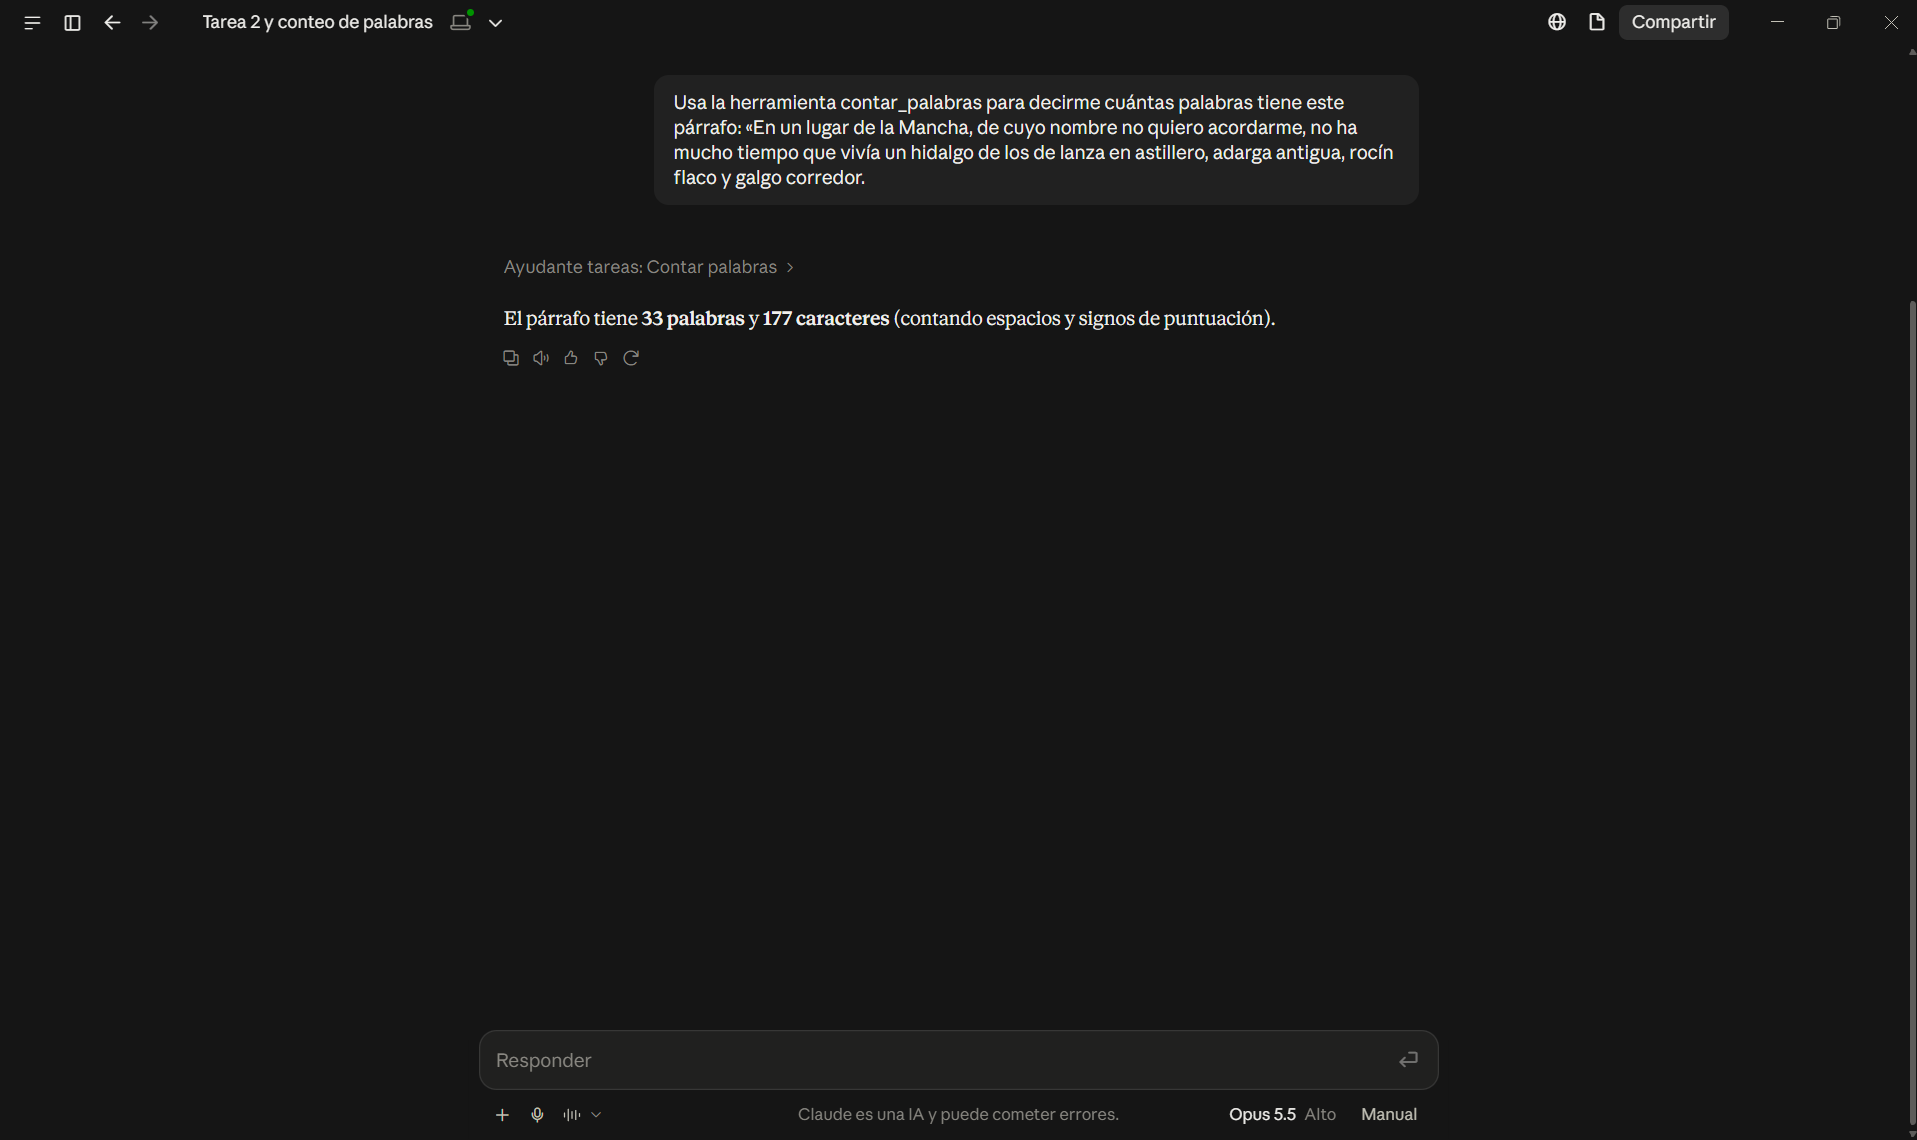
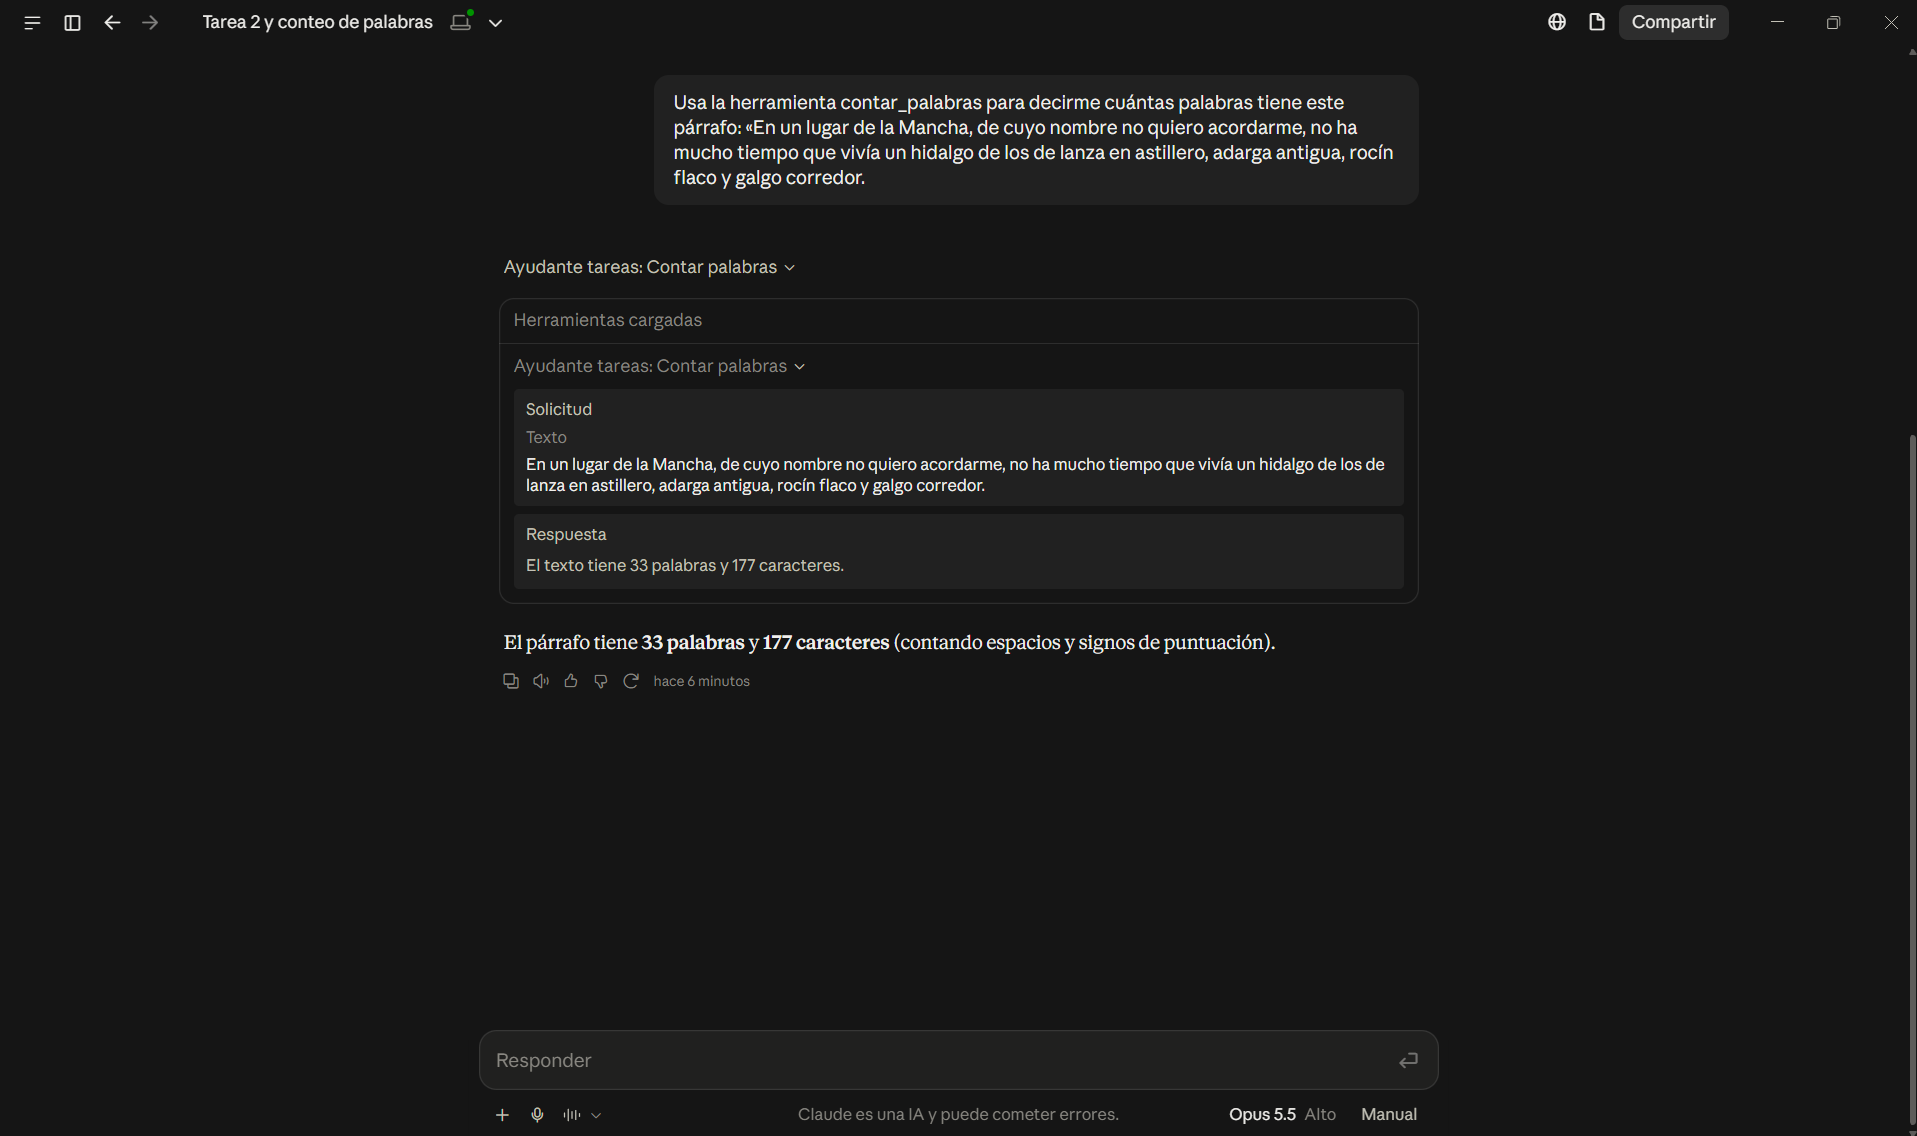
docs(tarea2): se actualizan las capturas de la prueba del servidor propio

diff --git a/tarea2/servidor-propio/README.md b/tarea2/servidor-propio/README.md
@@ -77,7 +77,7 @@ Para probar `dias_restantes` le pregunté a Claude, el martes 13 de octubre de 2
 
 > Usa la herramienta dias_restantes para decirme cuántos días me quedan para entregar la Tarea 2. Se entrega el 17 de octubre de 2026.
 
-Claude convirtió la fecha a `2026-10-17` y pidió permiso para usar *Días restantes* de `ayudante-tareas`; en la ventana de permiso se ve la fecha que iba a mandar. Lo aprobé con *Permitir una vez*, el servidor leyó la fecha de mi computadora y Claude respondió que me quedan **4 días**: hoy es martes 13 de octubre y la entrega es el sábado 17.
+Claude convirtió la fecha a `2026-10-17` y pidió permiso para usar *Días restantes* de `ayudante-tareas`; en la ventana de permiso se ve la fecha que iba a mandar. Lo aprobé con *Permitir una vez*, el servidor leyó la fecha de mi computadora y Claude respondió que me quedan **4 días**: hoy es martes 13 de octubre y la entrega es el sábado 17. Al desplegar el bloque de la herramienta se ven la *Solicitud* que mandó Claude y la *Respuesta* tal como la escribió mi servidor: «Hoy es martes, 13 de octubre de 2026. Días que faltan para el 2026-10-17: 4.» Así se comprueba que la cuenta la hizo el servidor y no el modelo.
 
 Para probar `contar_palabras` usé el inicio del *Quijote*:
 
